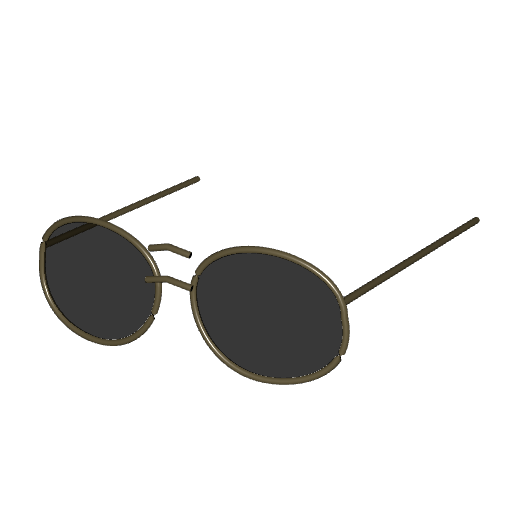
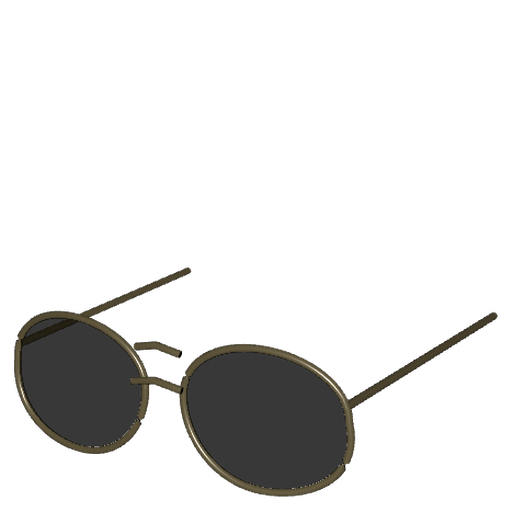
The collection on a rendered display cabinet
The shelf is the designer's render (art/shelf.png) keyed to transparency
by scripts/art.py; the toys stand on its three shelves by percentages,
with their names on the brass edges. Thumbnails are trimmed to their
contents and bottom-aligned, so a toy sits on the shelf instead of
floating. The knob's cut stops inside the disc's bevel with a soft edge.

Changed region(s): [[0.0, 0.3438, 0.9688, 0.9688]]

diff --git a/site/src/style.css b/site/src/style.css
@@ -206,92 +206,102 @@
   filter: brightness(0.72) saturate(0.6);
 }
 
-/* ---- The collection: a wooden bookcase, with the toys you've got. */
+/* ---- The collection: a rendered display cabinet; the toys you've got stand
+   on its three shelves, placed by percentages of the picture. */
 
 .bookcase {
-  width: min(100% - 2rem, 30rem);
-  margin-top: 1.25rem;
-  padding: 0.75rem 0.75rem 0;
-  border-radius: 10px;
-  overflow: hidden;
-  background:
-    var(--grain),
-    repeating-linear-gradient(90deg, transparent 0 11px, oklch(0 0 0 / 0.05) 11px 13px, oklch(1 0 0 / 0.04) 13px 19px),
-    linear-gradient(oklch(0.62 0.1 62), oklch(0.5 0.1 58));
-  box-shadow:
-    inset 0 0 0 1px oklch(0 0 0 / 0.35),
-    inset 0 2px 0 oklch(1 0 0 / 0.2),
-    0 10px 24px oklch(0 0 0 / 0.5);
+  position: relative;
+  width: min(100vw, 600px);
+  aspect-ratio: 1024 / 1536;
+  margin-top: -3%;
+  background: url("/art/shelf.webp") center / 100% 100% no-repeat;
 }
+/* The name plate on the arch. */
 .plaque {
+  position: absolute;
+  left: 18%;
+  right: 18%;
+  top: 7.4%;
+  height: 3.6%;
   display: flex;
-  align-items: baseline;
+  align-items: center;
   justify-content: space-between;
-  padding: 0.35rem 0.8rem;
-  border-radius: 6px;
   font-family: var(--font-sign);
-  letter-spacing: 0.08em;
+  font-size: clamp(0.5rem, 2.4vw, 0.85rem);
+  letter-spacing: 0.1em;
   text-transform: uppercase;
-  color: oklch(0.32 0.06 60);
-  text-shadow: 0 1px 0 oklch(1 0 0 / 0.45);
-  background: linear-gradient(var(--color-brass-light), var(--color-brass) 50%, var(--color-brass-dark));
-  box-shadow:
-    inset 0 1px 0 oklch(1 0 0 / 0.6),
-    0 1px 2px oklch(0 0 0 / 0.5);
+  color: var(--color-cream);
+  text-shadow:
+    0 1px 1px oklch(0 0 0 / 0.8),
+    0 0 6px oklch(0.85 0.15 75 / 0.5);
 }
 .plaque h2 {
-  font-size: 0.85rem;
+  font-size: inherit;
   font-weight: 700;
 }
 .plaque-count {
   font-family: var(--font-sans);
-  font-size: 0.78rem;
+  font-size: inherit;
   font-weight: 700;
 }
 .shelves {
-  margin-top: 0.5rem;
-  margin-inline: -0.75rem;
+  position: absolute;
+  inset: 0;
 }
 .shelf {
-  position: relative;
+  position: absolute;
+  left: 10%;
+  width: 80%;
   display: grid;
   grid-template-columns: repeat(4, 1fr);
   align-items: end;
-  min-height: 6.4rem;
-  padding: 0.5rem 0.4rem 14px;
 }
-.shelf::after {
-  content: "";
-  position: absolute;
-  inset: auto 0 0;
-  height: 14px;
-  background: linear-gradient(oklch(0.8 0.09 72), oklch(0.56 0.1 60) 30%, oklch(0.36 0.08 55));
-  box-shadow: 0 4px 6px oklch(0 0 0 / 0.5);
+.shelf:nth-child(1) { top: 12.4%; height: 17.8%; }
+.shelf:nth-child(2) { top: 33.6%; height: 19.8%; }
+.shelf:nth-child(3) { top: 57.3%; height: 19.5%; }
+.shelf > li {
+  height: 100%;
+  min-width: 0;
 }
 .toy {
-  display: flex;
-  flex-direction: column;
-  align-items: center;
-  gap: 0.1rem;
+  position: relative;
+  display: block;
   width: 100%;
-  padding: 0 0.15rem 0.3rem;
+  height: 100%;
 }
 .toy img {
-  width: 100%;
-  max-width: 76px;
+  position: absolute;
+  left: 50%;
+  bottom: 0;
+  width: 86%;
   aspect-ratio: 1;
+  translate: -50% 0;
   object-fit: contain;
-  filter: drop-shadow(0 6px 4px oklch(0 0 0 / 0.55));
+  filter: drop-shadow(0 4px 3px oklch(0 0 0 / 0.6));
 }
 .toy[data-rarity="special"] img {
-  filter: drop-shadow(0 6px 4px oklch(0 0 0 / 0.55)) drop-shadow(0 0 8px oklch(0.85 0.15 85 / 0.6));
+  filter: drop-shadow(0 4px 3px oklch(0 0 0 / 0.6)) drop-shadow(0 0 8px oklch(0.85 0.15 85 / 0.6));
 }
+/* The name, on the brass edge of the shelf. */
 .toy span {
-  font-size: 0.66rem;
-  line-height: 1.15;
-  text-align: center;
-  color: var(--color-cream);
-  text-shadow: 0 1px 1px oklch(0 0 0 / 0.7);
+  position: absolute;
+  left: -4%;
+  right: -4%;
+  top: 100%;
+  height: 19%;
+  display: flex;
+  align-items: center;
+  justify-content: center;
+  overflow: hidden;
+  font-family: var(--font-sans);
+  font-size: clamp(0.42rem, 2.1vw, 0.68rem);
+  font-weight: 600;
+  line-height: 1;
+  letter-spacing: 0.02em;
+  white-space: nowrap;
+  text-overflow: ellipsis;
+  color: oklch(0.22 0.05 50);
+  text-shadow: 0 1px 0 oklch(1 0.05 90 / 0.45);
 }
 
 .links {

diff --git a/site/src/game.ts b/site/src/game.ts
@@ -299,7 +299,7 @@ async function finish() {
   play.disabled = false;
 }
 
-// ---- The shelves: what you've collected, in order. Empty space is empty.
+// ---- The cabinet: what you've collected, in order. Empty shelves stay empty.
 
 const PER_ROW = 4;
 $("total-count").textContent = String(models.length);
@@ -307,8 +307,7 @@ $("total-count").textContent = String(models.length);
 function renderShelves() {
   const have = collection();
   $("caught-count").textContent = String(have.length);
-  // Only the shelves in use, plus room for the next toy.
-  const rows = Math.min(Math.ceil(models.length / PER_ROW), Math.floor(have.length / PER_ROW) + 1);
+  const rows = Math.ceil(models.length / PER_ROW);
   $("shelves").replaceChildren(
     ...Array.from({ length: rows }, (_, row) => {
       const shelf = document.createElement("ul");

diff --git a/models/thumbs.py b/models/thumbs.py
@@ -65,11 +65,31 @@ def render(model, size=512):
 
     out = os.path.join(SITE, "thumbs", f"{model['id']}.png")
     subprocess.run(["usdrecord", "--camera", "/Camera", "--imageWidth", str(size), shot, out], check=True, capture_output=True)
+    trim(out, size)
     return out
+
+def trim(path, size=512, margin=0.03):
+    """Cuts the empty margins off, and stands the model on the bottom edge,
+    so it sits on a shelf instead of floating above it."""
+    from PIL import Image
+    im = Image.open(path).convert("RGBA")
+    box = im.getchannel("A").getbbox()
+    if not box:
+        return
+    model = im.crop(box)
+    side = int(max(model.width, model.height) * (1 + 2 * margin))
+    canvas = Image.new("RGBA", (side, side), (0, 0, 0, 0))
+    canvas.paste(model, ((side - model.width) // 2, side - model.height - int(side * margin)))
+    canvas.resize((size, size), Image.LANCZOS).save(path, optimize=True)
 
 if __name__ == "__main__":
     os.makedirs(os.path.join(SITE, "thumbs"), exist_ok=True)
     wanted = set(sys.argv[1:])
+    if wanted == {"--trim"}:
+        # Just re-trim what's already rendered.
+        for model in CATALOG:
+            trim(os.path.join(SITE, "thumbs", f"{model['id']}.png"))
+        sys.exit()
     for model in CATALOG:
         if not wanted or model["id"] in wanted:
             print(render(model))

diff --git a/scripts/art.py b/scripts/art.py
@@ -61,3 +61,13 @@ icon = arcade.crop((232, 460, 792, 1020))
 for size, name in ((180, "apple-touch-icon.png"), (192, "icon-192.png"), (512, "icon-512.png")):
     icon.resize((size, size), Image.LANCZOS).save(OUT / "icons" / name, optimize=True)
 print("textures and icons written")
+
+# The shelf: the cabinet on black, keyed to nothing. Only true black goes;
+# the dark wood in the corners stays.
+shelf = Image.open(ROOT / "art" / "shelf.png").convert("RGB")
+lum = shelf.convert("L")
+alpha = lum.point(lambda v: 0 if v <= 6 else 255 if v >= 22 else int((v - 6) * 255 / 16))
+rgba = shelf.convert("RGBA")
+rgba.putalpha(alpha)
+rgba.save(OUT / "art" / "shelf.webp", quality=84, method=6)
+print(f"shelf {rgba.width}x{rgba.height}")
